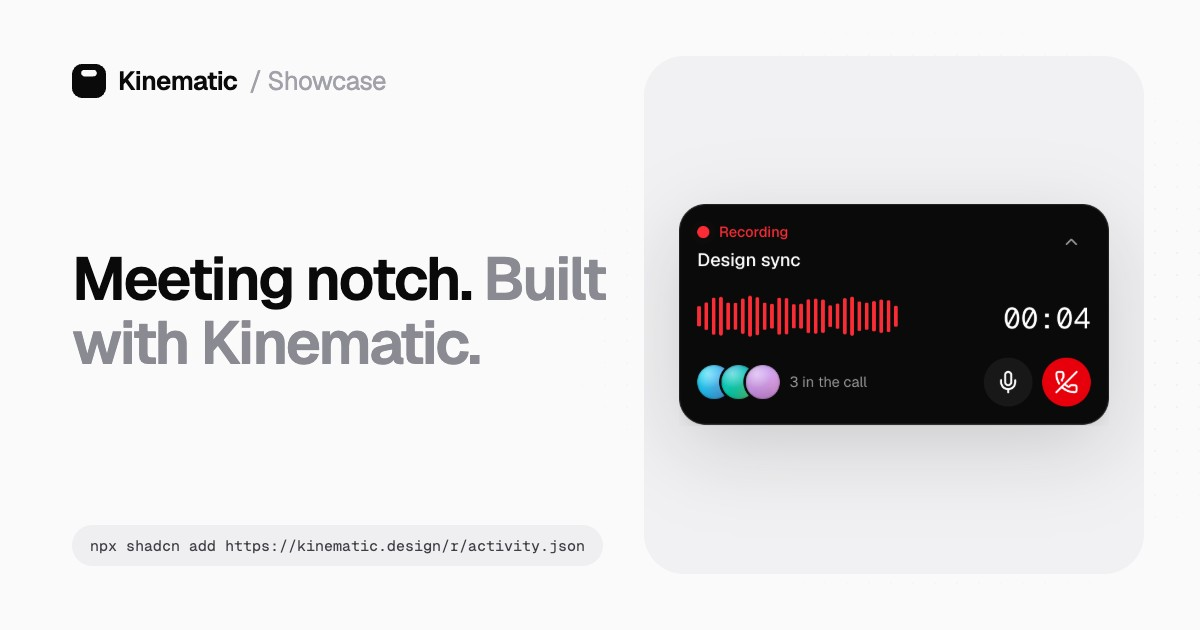
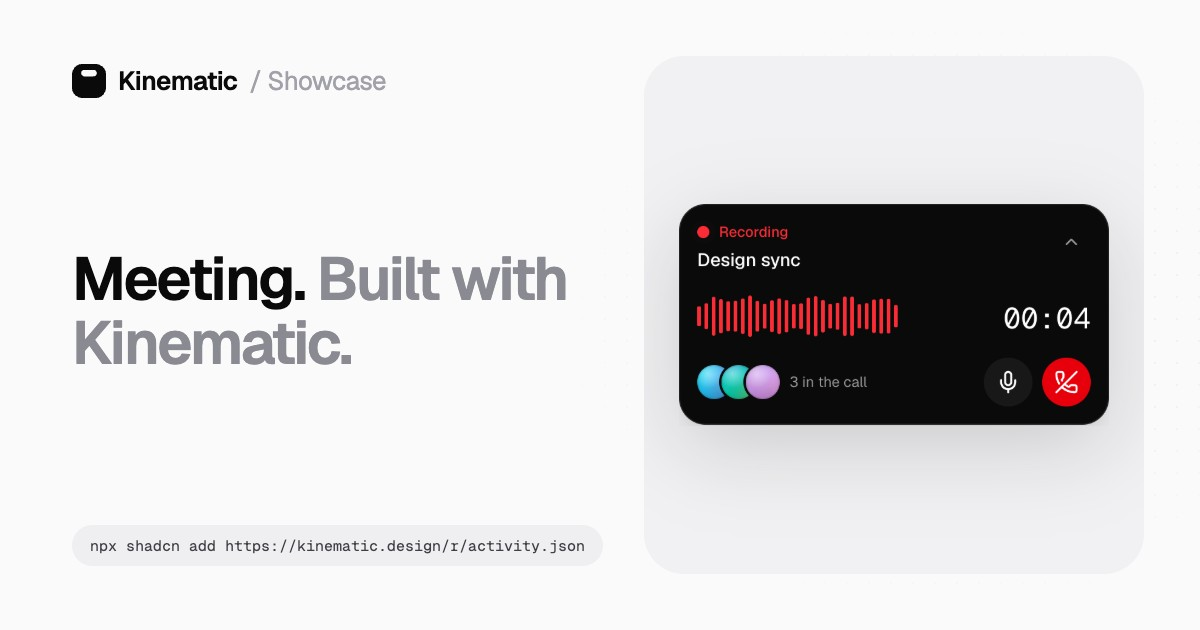
Rename showcase examples

diff --git a/src/components/showcase/catalog.ts b/src/components/showcase/catalog.ts
@@ -9,53 +9,53 @@ export type CatalogEntry = {
 export const catalog: CatalogEntry[] = [
   {
     id: "rain",
-    name: "Rain alert",
+    name: "Weather",
     description: "A minute-by-minute chart of the next hour that slides with time. Hover any bar for that minute.",
     expanded: true,
   },
   {
     id: "captions",
-    name: "Live captions",
+    name: "Captions",
     description: "Words stream in as people talk, with the speaker's orb and a live English to Spanish switch.",
     expanded: true,
   },
   {
     id: "meeting-notch",
-    name: "Meeting notch",
+    name: "Meeting",
     description: "Who's talking, a live waveform and the call length, with mute and leave one tap away.",
   },
   {
     id: "agent",
-    name: "Coding agent",
+    name: "Agent",
     description: "A live plan of tool calls that pauses to ask before running anything, with Allow right in the pill.",
     expanded: true,
   },
   {
     id: "ride",
-    name: "Ride arriving",
+    name: "Ride",
     description: "A countdown to pickup with the plate up front, and the driver and route when it opens.",
     assets: ["/showcase/hatchback-red.png"],
     expanded: true,
   },
   {
     id: "nearby-share",
-    name: "Nearby share",
+    name: "Share",
     description: "Files flowing to another device, with per-file progress, live speed and time left.",
   },
   {
     id: "song-match",
-    name: "Song match",
+    name: "Song",
     description: "Rings pulse out while it listens, then the orb morphs into the album cover with play and save.",
   },
   {
     id: "live-stream",
-    name: "Going live",
+    name: "Stream",
     description: "Reactions float up over the stream, comments fade in, and viewers tick up in the pill.",
     expanded: true,
   },
   {
     id: "sign-in-code",
-    name: "Sign-in code",
+    name: "Passcode",
     description: "A one-time code whose digits roll every 30 seconds, with a countdown ring and copy.",
   },
   {
@@ -66,24 +66,24 @@ export const catalog: CatalogEntry[] = [
   },
   {
     id: "live-match",
-    name: "Live match",
+    name: "Score",
     description: "A scoreline that rolls on every goal, a running clock and the latest scorers.",
   },
   {
     id: "run",
-    name: "Morning run",
+    name: "Run",
     description: "Distance against a goal ring, with pace, time and heart rate when you open it.",
     expanded: true,
   },
   {
     id: "flight",
-    name: "Boarding pass",
+    name: "Flight",
     description: "Route, gate and seat at a glance, with the countdown to boarding in both shapes.",
     expanded: true,
   },
   {
     id: "delivery",
-    name: "Food delivery",
+    name: "Delivery",
     description: "Order steps that fill as they happen, and a timeline that tells you what's next.",
   },
 ]

diff --git a/src/app/showcase/page.tsx b/src/app/showcase/page.tsx
@@ -10,7 +10,7 @@ import { itemListSchema } from "@/lib/structured-data"
 
 export const metadata: Metadata = pageMetadata({
   title: "Showcase",
-  description: `${catalog.length} live React examples built from the Kinematic Activity primitives: meeting notch, coding agent, live captions, rain alerts and more. Copy the source into your app.`,
+  description: `${catalog.length} live React examples built from the Kinematic Activity primitives: meeting, agent, captions, weather and more. Copy the source into your app.`,
   path: "/showcase",
   image: "showcase",
 })
